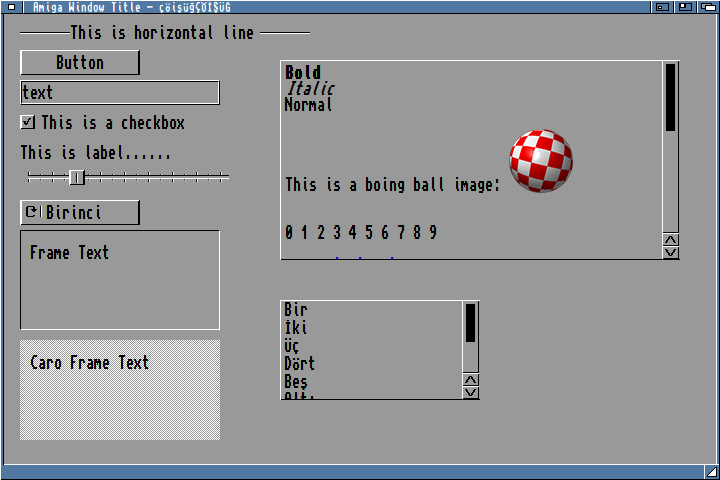
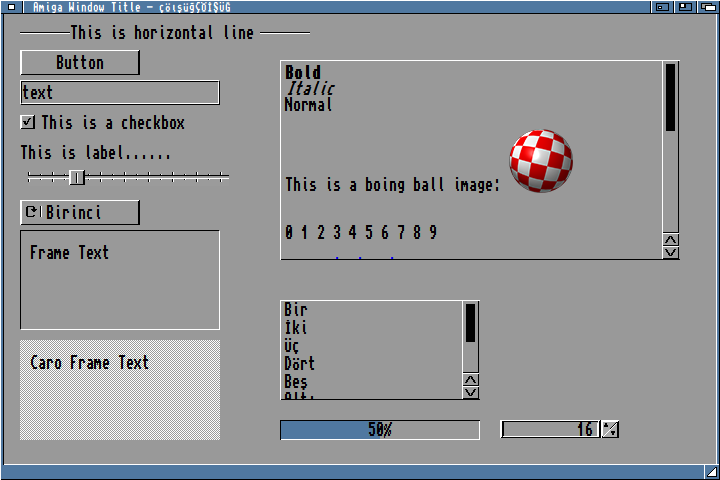
Added spinbox and progressivebar gadget

Changed region(s): [[0.6722, 0.875, 0.8861, 0.9375], [0.3667, 0.875, 0.55, 0.9375]]

diff --git a/amigaspinbox.cpp b/amigaspinbox.cpp
@@ -1,0 +1,90 @@
+#include "amigaspinbox.h"
+
+AmigaSpinBox::AmigaSpinBox(QWidget *parent, int w, int h, int x, int y):
+    QFrame(parent)
+{
+    setGeometry(x,y,w,h);
+    setStyleSheet(QString::fromUtf8("background-color: rgb(153, 153, 153);"));
+    setFrameShape(QFrame::Box);
+    setFrameShadow(QFrame::Plain);
+    auto horizontalLayout = new QHBoxLayout(this);
+    horizontalLayout->setSpacing(4);
+    horizontalLayout->setContentsMargins(3, 0, 0, 0);
+    spinBox = new QSpinBox(this);
+    spinBox->setFrame(false);
+    spinBox->setAlignment(Qt::AlignRight|Qt::AlignTrailing|Qt::AlignVCenter);
+    spinBox->setButtonSymbols(QAbstractSpinBox::NoButtons);
+    spinBox->setReadOnly(true);
+    QPalette p =  spinBox->palette();
+    p.setColor(QPalette::Highlight, QColor(BLUE));
+    spinBox->setPalette(p);
+    spinBox->setContextMenuPolicy(Qt::NoContextMenu);
+
+    horizontalLayout->addWidget(spinBox);
+
+    upDown = new AmigaButton(this, ":/pics/pics/spinbox_normal.png", ":/pics/pics/spinbox_normal.png",  ":/pics/pics/spinbox_normal.png");
+    QSizePolicy sizePolicy(QSizePolicy::Fixed, QSizePolicy::Fixed);
+    sizePolicy.setHorizontalStretch(0);
+    sizePolicy.setVerticalStretch(0);
+    sizePolicy.setHeightForWidth(upDown->sizePolicy().hasHeightForWidth());
+
+    upDown->setSizePolicy(sizePolicy);
+    upDown->setMinimumSize(QSize(18, 17));
+    upDown->setMaximumSize(QSize(18, 17));
+    upDown->setBaseSize(QSize(18, 17));
+    upDown->setFlat(false);
+
+    horizontalLayout->addWidget(upDown);
+
+    setFixedHeight(17+2);
+    spinBox->setFixedHeight(14);
+
+    connect(upDown, SIGNAL(clicked()), this, SLOT(spinButtonPressed()));
+
+    timer = new QTimer(this);
+    connect(timer, &QTimer::timeout, this, &AmigaSpinBox::setPressImage);
+    timer->start(500);
+
+    update();
+}
+
+void AmigaSpinBox::setFont(QFont &font)
+{
+    spinBox->setFont(font);
+}
+
+void AmigaSpinBox::spinButtonPressed()
+{
+    spinBox->setValue(spinBox->value()+(isPointInTriangle() ? -1 : 1));
+}
+
+void AmigaSpinBox::setPressImage()
+{
+    upDown->setPressImage(isPointInTriangle() ? ":/pics/pics/spinbox_down_down.png":":/pics/pics/spinbox_up_down.png");
+}
+
+bool AmigaSpinBox::isPointInTriangle()
+{
+    QPoint p = upDown->getCurrentMousePoint();
+    return (p.x()+p.y())>upDown->width();
+}
+
+void AmigaSpinBox::paintEvent(QPaintEvent *)
+{
+    QPainter painter(this);
+    painter.fillRect(QRect(0,0,width()-1,height()-1), QBrush(WHITE));
+    painter.setPen(BLACK);
+    painter.drawLine(1, height()-2, spinBox->width()+7, height()-2);
+    painter.drawLine(2, 1, spinBox->width()+4, 1);
+    painter.drawLine(2, 1, 2, height()-3);
+    painter.drawLine(3, 1, 3, height()-4);
+    painter.drawLine(spinBox->width()+6, 1, spinBox->width()+6, height()-3);
+    painter.drawLine(spinBox->width()+7, 0, spinBox->width()+7, height()-2);
+    painter.setPen(GRAY);
+    painter.drawPoint(spinBox->width()+4,2);
+
+
+
+
+
+}

diff --git a/amigatitlebar.cpp b/amigatitlebar.cpp
@@ -1,6 +1,6 @@
 #include "amigatitlebar.h"
 
-AmigaTitleBar::AmigaTitleBar(QWidget *parent) : QWidget(parent)
+AmigaTitleBar::AmigaTitleBar(QWidget *parent, bool closeButton, bool minimizeButton, bool maximizeButton) : QWidget(parent)
 {
     QSizePolicy sizePolicy(QSizePolicy::Preferred, QSizePolicy::Fixed);
     sizePolicy.setHorizontalStretch(0);
@@ -14,16 +14,19 @@ AmigaTitleBar::AmigaTitleBar(QWidget *parent) : QWidget(parent)
     horizontalLayout->setSpacing(0);
     horizontalLayout->setObjectName(QString::fromUtf8("horizontalLayout"));
     horizontalLayout->setContentsMargins(0, 0, 0, 0);
-    bClose = new AmigaButton(this, ":/pics/pics/top_left.png", ":/pics/pics/top_left.png", ":/pics/pics/top_left_down.png");
+    bClose = new AmigaButton(this, (closeButton) ? ":/pics/pics/top_left.png" : ":/pics/pics/top_left_edge.png",
+                             (closeButton) ? ":/pics/pics/top_left.png" : ":/pics/pics/top_left_edge.png",
+                             (closeButton) ? ":/pics/pics/top_left_down.png" : ":/pics/pics/top_left_edge.png");
     bClose->setObjectName(QString::fromUtf8("bClose"));
     QSizePolicy sizePolicy1(QSizePolicy::Fixed, QSizePolicy::Fixed);
     sizePolicy1.setHorizontalStretch(0);
     sizePolicy1.setVerticalStretch(0);
     sizePolicy1.setHeightForWidth(bClose->sizePolicy().hasHeightForWidth());
     bClose->setSizePolicy(sizePolicy1);
-    bClose->setMinimumSize(QSize(25, 15));
-    bClose->setMaximumSize(QSize(25, 15));
-    bClose->setBaseSize(QSize(25, 15));
+    int bCloseWidth = (closeButton) ? 25 : 4;
+    bClose->setMinimumSize(QSize(bCloseWidth, 15));
+    bClose->setMaximumSize(QSize(bCloseWidth, 15));
+    bClose->setBaseSize(QSize(bCloseWidth, 15));
 
     horizontalLayout->addWidget(bClose);
 
@@ -45,6 +48,7 @@ AmigaTitleBar::AmigaTitleBar(QWidget *parent) : QWidget(parent)
     bMin->setMinimumSize(QSize(25, 15));
     bMin->setMaximumSize(QSize(25, 15));
     bMin->setBaseSize(QSize(25, 15));
+    bMin->setVisible(minimizeButton);
 
     horizontalLayout->addWidget(bMin);
 
@@ -54,6 +58,7 @@ AmigaTitleBar::AmigaTitleBar(QWidget *parent) : QWidget(parent)
     bMax->setSizePolicy(sizePolicy1);
     bMax->setMinimumSize(QSize(23, 15));
     bMax->setMaximumSize(QSize(23, 15));
+    bMax->setVisible(maximizeButton);
 
     horizontalLayout->addWidget(bMax);
 
@@ -70,8 +75,11 @@ AmigaTitleBar::AmigaTitleBar(QWidget *parent) : QWidget(parent)
                this      , SLOT  (Minimized()));
     connect(bMax, SIGNAL(clicked  ()),
                this,       SLOT  (Maximized()));
-    connect(bClose   , SIGNAL(clicked  ()),
+    if(closeButton)
+    {
+        connect(bClose   , SIGNAL(clicked  ()),
                this      , SLOT  (Quit()));
+    }
     connect(bAot   , SIGNAL(clicked  ()),
                this      , SLOT  (AlwaysTopOn()));
 

diff --git a/amigabutton.cpp b/amigabutton.cpp
@@ -7,6 +7,7 @@ AmigaButton::AmigaButton(QWidget *parent,
                        int x, int y,
                          const QString& text) : QPushButton(parent)
 {
+    setMouseTracking(true);
     currentStatus = NORMAL;
     imageName[NORMAL] = normalImage;
     imageName[HOVER] = hoverImage;
@@ -24,6 +25,16 @@ AmigaButton::AmigaButton(QWidget *parent,
 void AmigaButton::setTextColor(QColor c)
 {
     setStyleSheet(QString("color: rgb(%1, %2, %3);").arg(c.red(),3,10).arg(c.green(),3,10).arg(c.blue(),3,10));
+}
+
+void AmigaButton::setPressImage(QString pressImage)
+{
+    imageName[PRESS] = pressImage;
+}
+
+QPoint AmigaButton::getCurrentMousePoint()
+{
+    return curMousePoint;
 }
 
 void AmigaButton::enterEvent(QEnterEvent *)
@@ -55,6 +66,12 @@ void AmigaButton::mouseReleaseEvent(QMouseEvent *event)
         update();
     }
     if(rect().contains(event->pos())) emit clicked();
+}
+
+void AmigaButton::mouseMoveEvent(QMouseEvent *event)
+{
+    curMousePoint.setX(event->pos().x());
+    curMousePoint.setY(event->pos().y());
 }
 
 void AmigaButton::paintEvent(QPaintEvent *)

diff --git a/main.cpp b/main.cpp
@@ -10,6 +10,8 @@
 #include "amigaframe.h"
 #include "amigatextedit.h"
 #include "amigalistwidget.h"
+#include "amigaprogressbar.h"
+#include "amigaspinbox.h"
 
 #include <QApplication>
 #include <QColor>
@@ -17,7 +19,7 @@
 int main(int argc, char *argv[])
 {
     QApplication a(argc, argv);
-    AmigaWindow w;
+    AmigaWindow w;//(nullptr, false, false, false);
 
     // font
     QFont font;
@@ -109,8 +111,18 @@ int main(int argc, char *argv[])
     new QListWidgetItem("Yedi", &aListWidget);
     new QListWidgetItem("Sekiz", &aListWidget);
 
+    // progressbar
+    //AmigaProgressBar aProgBar(&w, 200, 20, 280, 420);
+    AmigaProgressBar aProgBar(&w, 200, 20, 280, 420, 0, 50, true);
+    aProgBar.setFont(font);
+    aProgBar.setValue(25);
 
-    w.setWindowTitle("Amiga Window Title - çöişüğÇÖİŞÜĞ");
+    // spinbox
+    AmigaSpinBox aSpinBox(&w, 120,25,500,420);
+    aSpinBox.setFont(font);
+
+
+    w.setWindowTitle("Amiga Window Title - çöışüğÇÖİŞÜĞ");
     w.resize(720, 480);
     w.setMinimumSize(720,480);
     w.show();

diff --git a/amigaprogressbar.cpp b/amigaprogressbar.cpp
@@ -1,0 +1,24 @@
+#include "amigaprogressbar.h"
+
+AmigaProgressBar::AmigaProgressBar(QWidget *parent,
+                                   int w, int h,
+                                   int x, int y,
+                                   int value, int maxValue,
+                                   bool textVisible):
+    QProgressBar(parent)
+{
+    setGeometry(x,y,w,h);
+    setValue(value);
+    setMaximum(maxValue);
+    setTextVisible(textVisible);
+    setStyleSheet(QString::fromUtf8("QProgressBar {\n"
+    "border: 1px solid black; \n"
+    "background-color: rgb(153, 153, 153);\n"
+    "border-bottom-color: rgb(255, 255, 255);\n"
+    "border-right-color: rgb(255, 255, 255);\n"
+    "text-align: center;"
+    "}\n"
+    "QProgressBar::chunk {\n"
+    "    background-color: #5078a0;\n"
+    "}"));
+}

diff --git a/amigaspinbox.h b/amigaspinbox.h
@@ -1,0 +1,33 @@
+#ifndef AMIGASPINBOX_H
+#define AMIGASPINBOX_H
+
+#include <QFrame>
+#include <QPainter>
+#include <QSpinBox>
+#include <QTimer>
+#include "amigacolors.h"
+#include "amigabutton.h"
+
+class AmigaSpinBox : public QFrame
+{
+    Q_OBJECT
+public:
+    explicit AmigaSpinBox(QWidget* parent,
+                        int w,
+                        int h,
+                        int x,
+                        int y);
+    void setFont(QFont &font);
+private slots:
+    void spinButtonPressed();
+private:
+       QSpinBox *spinBox;
+       AmigaButton *upDown;
+       QTimer *timer;
+       void setPressImage();
+       bool isPointInTriangle();
+protected:
+       virtual void paintEvent(QPaintEvent*);
+};
+
+#endif // AMIGASPINBOX_H

diff --git a/amigabutton.h b/amigabutton.h
@@ -19,12 +19,15 @@ public:
                         const QString& text=""
                         );
     void setTextColor(QColor c);
+    void setPressImage(QString pressImage);
+    QPoint getCurrentMousePoint();
 
 protected:
     virtual void enterEvent(QEnterEvent*);
     virtual void leaveEvent(QEvent*);
     virtual void mousePressEvent(QMouseEvent* event);
     virtual void mouseReleaseEvent(QMouseEvent* event);
+    virtual void mouseMoveEvent(QMouseEvent* event);
     virtual void paintEvent(QPaintEvent*);
 
 private:
@@ -39,6 +42,7 @@ private:
     int w, h;
     int x, y;
     bool noText;
+    QPoint curMousePoint;
 
 };
 

diff --git a/amigaprogressbar.h b/amigaprogressbar.h
@@ -1,0 +1,19 @@
+#ifndef AMIGAPROGRESSBAR_H
+#define AMIGAPROGRESSBAR_H
+
+#include <QProgressBar>
+#include "amigacolors.h"
+
+class AmigaProgressBar : public QProgressBar
+{
+    Q_OBJECT
+public:
+    AmigaProgressBar(QWidget *parent,
+                     int w, int h,
+                     int x, int y,
+                     int value=0,
+                     int maxValue=100,
+                     bool textVisible=false);
+};
+
+#endif // AMIGAPROGRESSBAR_H

diff --git a/amigawindow.cpp b/amigawindow.cpp
@@ -1,8 +1,8 @@
 #include "amigawindow.h"
 
-AmigaWindow::AmigaWindow(QMainWindow *parent) : QMainWindow(parent),
+AmigaWindow::AmigaWindow(QMainWindow *parent, bool closeButton, bool minimizeButton, bool maximizeButton) : QMainWindow(parent),
     m_SizeGrip(this),
-    m_TitleBar(this)
+    m_TitleBar(this, closeButton, minimizeButton, maximizeButton)
 {
     connect(this       , SIGNAL(WindowTitleChanged()),
         &m_TitleBar, SLOT  (UpdateWindowTitle ()));

diff --git a/amigawindow.h b/amigawindow.h
@@ -9,7 +9,10 @@ class AmigaWindow : public QMainWindow
 {
     Q_OBJECT
 public:
-    explicit AmigaWindow(QMainWindow *parent = nullptr);
+    explicit AmigaWindow(QMainWindow *parent = nullptr,
+                         bool closeButton=true,
+                         bool minimizeButton=true,
+                         bool maximizeButton=true);
     void setWindowTitle(const QString &title);
 
 signals:

diff --git a/amigatitlebar.h b/amigatitlebar.h
@@ -11,7 +11,7 @@ class AmigaTitleBar : public QWidget
 {
     Q_OBJECT
 public:
-    explicit AmigaTitleBar(QWidget *parent = nullptr);
+    explicit AmigaTitleBar(QWidget *parent = nullptr, bool closeButton=true, bool minimizeButton=true, bool maximizeButton=true);
     ~AmigaTitleBar();
 
 protected:
